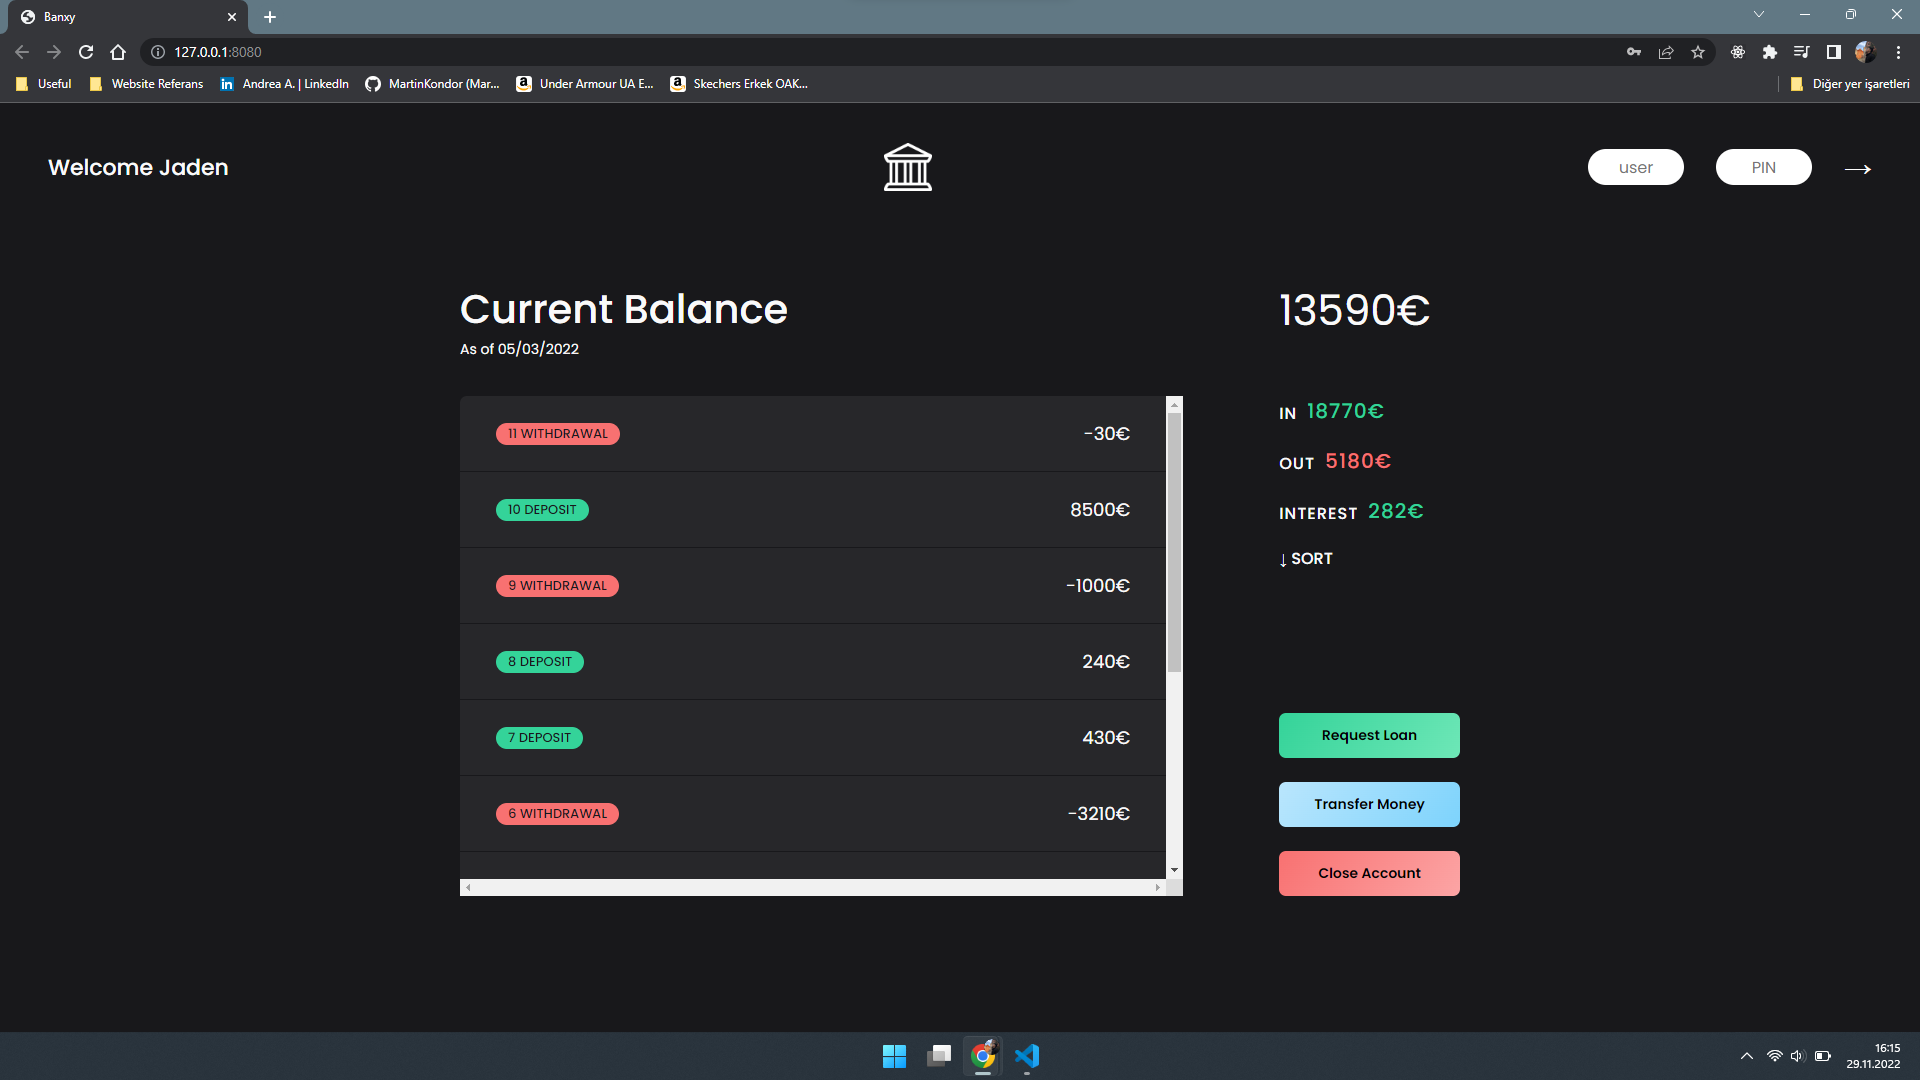
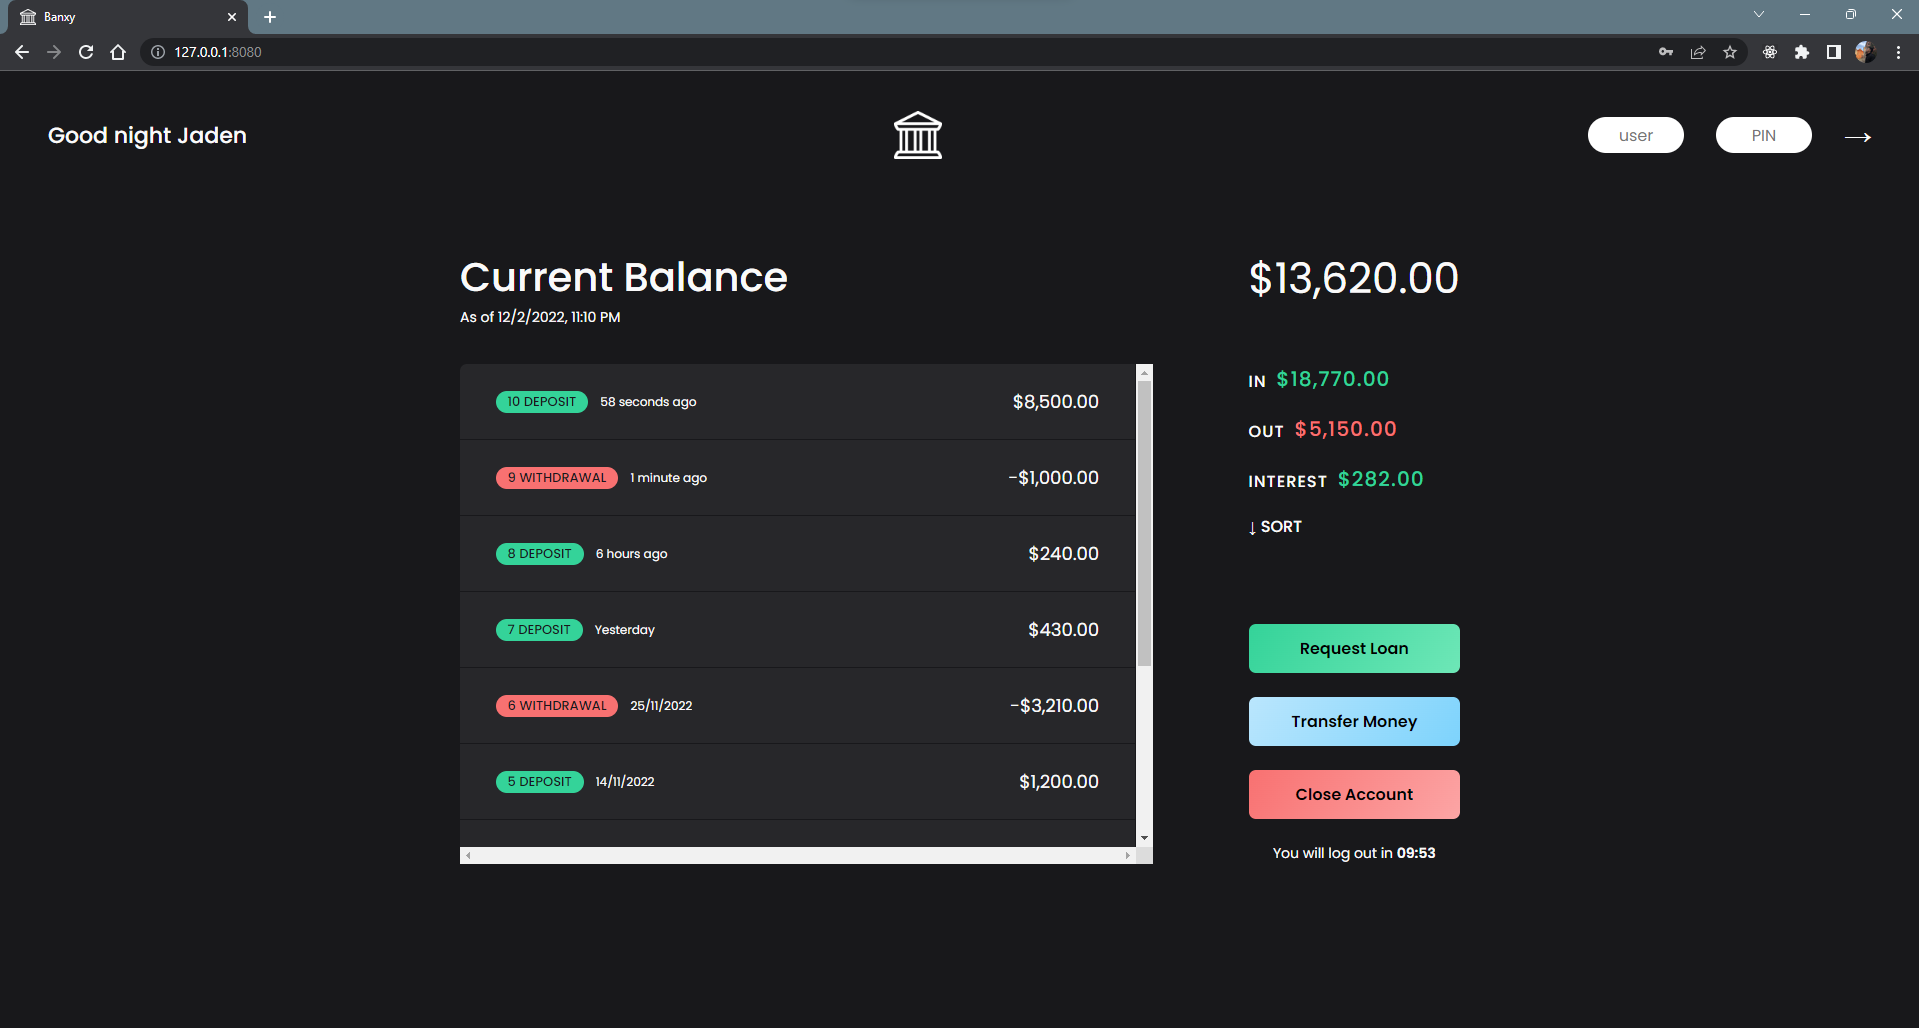
Preview update

diff --git a/script.js b/script.js
@@ -31,18 +31,19 @@ const accounts = [
       '2022-11-03T23:20:00.000Z',
       '2022-11-10T08:54:00.000Z',
       '2022-11-12T19:46:00.000Z',
-      '2022-11-13T18:52:00.000Z',
       '2022-11-14T04:32:00.000Z',
-      '2022-11-19T21:18:00.000Z',
-      '2022-11-22T00:49:00.000Z',
-      '2022-11-22T05:24:00.000Z',
-      '2022-11-27T14:20:00.000Z',
+      '2022-11-24T21:18:00.000Z',
+      '2022-12-02T05:19:00.000Z',
+      '2022-12-02T14:06:00.000Z',
+      '2022-12-02T20:09:30.678Z',
+      '2022-12-02T20:09:36.678Z',
     ],
     locale: 'en-US',
     currency: 'USD',
   },
 ];
 
+console.log(new Date().toISOString());
 const actions = {
   transfer: {
     title: 'Transfer Money',

diff --git a/index.html b/index.html
@@ -4,6 +4,11 @@
     <meta charset="UTF-8" />
     <meta name="viewport" content="width=device-width, initial-scale=1.0" />
     <link rel="stylesheet" href="style.css" />
+    <link
+      rel="shortcut icon"
+      href="./img/bankWhiteIcon.png"
+      type="image/x-icon"
+    />
     <script defer src="./script.js"></script>
     <title>Banxy</title>
   </head>
